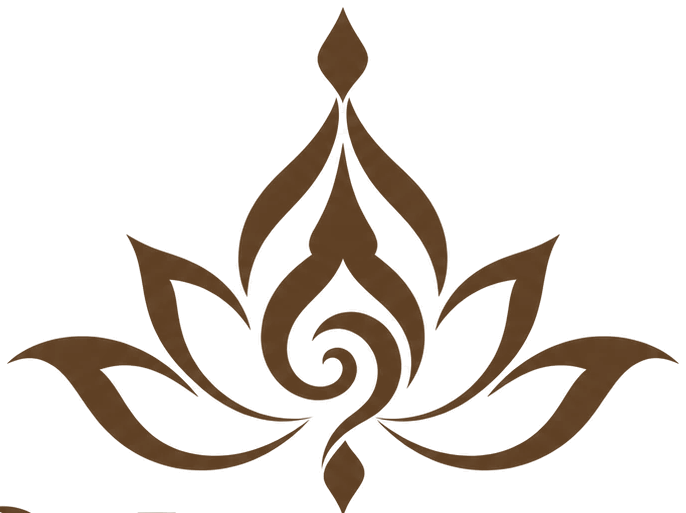
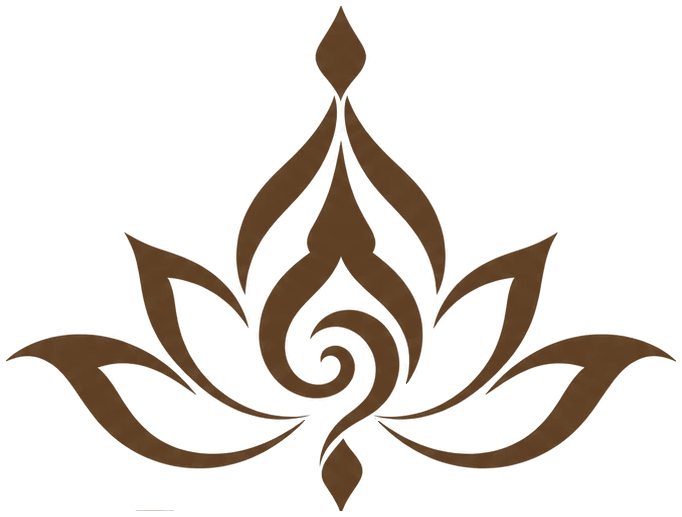
Put the lotus back in the header and footer, in the brand's own ink
The mark was traced and committed but nothing rendered it, so the site still
showed a bare typographic wordmark. The earlier decision to drop the lotus
was made when the only source was the foil mockup and its geometry could not
be cleaned up; the flat artwork removes that reason.

Header and footer now pair the mark with "MONTRA", both in
--color-brand-ink (#5F4024) — the logo's own colour, sampled from the
supplied artwork rather than invented, at 8.7:1 on cream.

The mark ships as an inline component rather than a file. An <img> has no
colour context, so fill="currentColor" would resolve to black; inlined, it
inherits from CSS and one component serves light and dark surfaces.

Tracing also needed a fix: the crop sits just above the wordmark and caught
the top-left serif of the "M", which rendered as a speck below the flower at
header size. Connected components under 500px are now dropped before
tracing, which removes it along with three single-pixel artefacts. Icons are
regenerated from the cleaned mark.

Verified: build, typecheck and lint clean; no horizontal overflow at 320,
375, 390, 430, 768, 1024, 1280 or 1440px.

Claude-Session: https://claude.ai/code/session_01G4VhenjMcrEwsY3VHVcRzM

diff --git a/src/components/brand/logo-mark.tsx b/src/components/brand/logo-mark.tsx
@@ -1,25 +1,40 @@
-<?xml version="1.0" standalone="no"?>
-<!DOCTYPE svg PUBLIC "-//W3C//DTD SVG 20010904//EN"
- "http://www.w3.org/TR/2001/REC-SVG-20010904/DTD/svg10.dtd">
-<svg version="1.0" xmlns="http://www.w3.org/2000/svg"
- viewBox="0 0 682.000000 517.000000"
- preserveAspectRatio="xMidYMid meet">
-<g transform="translate(0.000000,517.000000) scale(0.100000,-0.100000)"
-fill="currentColor" stroke="none">
-<path d="M3370 5032 c-19 -42 -69 -133 -110 -202 -94 -156 -100 -170 -100
+import type { SVGProps } from 'react'
+
+/**
+ * The Montra lotus, traced from the flat logo the client supplied.
+ *
+ * Inlined rather than served as a file so `currentColor` resolves — an <img>
+ * carries no colour context and would render it black.
+ *
+ * Components smaller than 500px were dropped before tracing: the crop sits
+ * just above the wordmark and caught the top-left serif of the "M", which
+ * showed up as a speck under the flower.
+ */
+export function LogoMark(props: SVGProps<SVGSVGElement>) {
+  return (
+    <svg
+      viewBox="0 0 682.000000 517.000000"
+      preserveAspectRatio="xMidYMid meet"
+      fill="currentColor"
+      aria-hidden="true"
+      focusable="false"
+      {...props}
+    >
+      <g transform="translate(0.000000,517.000000) scale(0.100000,-0.100000)" stroke="none">
+        <path d="M3370 5032 c-19 -42 -69 -133 -110 -202 -94 -156 -100 -170 -100
 -231 0 -65 24 -114 115 -228 41 -52 87 -119 103 -150 l30 -54 30 59 c17 32 63
 100 103 149 39 50 82 113 95 140 43 91 33 125 -95 339 -39 65 -83 150 -98 187
--16 38 -30 69 -33 69 -3 -1 -21 -35 -40 -78z"/>
-<path d="M3321 4152 c-32 -84 -116 -225 -198 -330 -37 -48 -162 -181 -278
+-16 38 -30 69 -33 69 -3 -1 -21 -35 -40 -78z" />
+        <path d="M3321 4152 c-32 -84 -116 -225 -198 -330 -37 -48 -162 -181 -278
 -297 -223 -223 -301 -321 -373 -467 -124 -251 -141 -564 -44 -788 l20 -45 6
 50 c41 324 129 495 402 788 220 237 305 350 387 512 107 214 150 436 113 590
-l-11 50 -24 -63z"/>
-<path d="M3466 4201 c-4 -5 -10 -42 -15 -82 -20 -156 25 -354 126 -551 77
+l-11 50 -24 -63z" />
+        <path d="M3466 4201 c-4 -5 -10 -42 -15 -82 -20 -156 25 -354 126 -551 77
 -152 154 -255 335 -451 169 -182 240 -270 306 -382 73 -124 127 -292 139 -427
 3 -43 9 -78 12 -78 12 0 50 110 67 191 24 120 15 332 -20 454 -33 118 -109
 269 -188 375 -34 47 -143 164 -242 260 -280 275 -405 436 -480 619 -19 46 -37
-78 -40 72z"/>
-<path d="M3372 3584 c-18 -92 -53 -227 -77 -302 -39 -117 -71 -188 -193 -424
+78 -40 72z" />
+        <path d="M3372 3584 c-18 -92 -53 -227 -77 -302 -39 -117 -71 -188 -193 -424
 -32 -63 -39 -123 -18 -173 l17 -40 -28 -20 c-90 -64 -217 -182 -276 -255 -263
 -327 -275 -743 -28 -1003 112 -117 244 -177 392 -177 189 0 340 99 379 250 35
 133 -58 270 -184 270 -84 0 -146 -51 -146 -121 l0 -37 29 29 c75 74 190 -5
@@ -29,43 +44,45 @@ l-11 50 -24 -63z"/>
 -82 19 -225 0 -314 -8 -38 -13 -71 -11 -74 7 -6 56 76 89 147 50 111 69 203
 70 336 0 79 -6 143 -17 188 -50 210 -177 397 -382 563 -73 59 -93 81 -87 93 4
 9 8 45 8 81 0 51 -6 76 -26 115 -14 28 -58 111 -97 186 -39 74 -87 182 -106
-240 -35 105 -80 305 -92 412 -4 31 -10 57 -13 57 -3 0 -21 -75 -39 -166z"/>
-<path d="M1252 2832 c82 -155 113 -256 162 -537 35 -196 67 -301 136 -442 78
+240 -35 105 -80 305 -92 412 -4 31 -10 57 -13 57 -3 0 -21 -75 -39 -166z" />
+        <path d="M1252 2832 c82 -155 113 -256 162 -537 35 -196 67 -301 136 -442 78
 -159 176 -288 338 -444 247 -238 457 -358 724 -413 95 -20 298 -20 388 -2 l65
 14 -80 -5 c-305 -19 -627 104 -863 331 -209 201 -311 413 -367 761 -15 94 -38
 199 -50 234 l-23 64 52 -7 c84 -9 223 -53 315 -98 147 -72 270 -175 372 -311
 63 -84 70 -83 39 8 -66 193 -208 369 -397 492 -106 70 -199 111 -397 179 -89
-30 -219 84 -289 119 -71 35 -127 61 -125 57z"/>
-<path d="M5445 2776 c-68 -35 -189 -85 -280 -115 -281 -93 -429 -175 -571
+30 -219 84 -289 119 -71 35 -127 61 -125 57z" />
+        <path d="M5445 2776 c-68 -35 -189 -85 -280 -115 -281 -93 -429 -175 -571
 -316 -91 -90 -151 -174 -199 -279 -33 -72 -60 -154 -52 -162 2 -2 20 19 39 48
 94 140 234 257 403 340 96 46 267 98 325 98 l28 0 -25 -67 c-13 -36 -35 -134
 -49 -217 -39 -237 -74 -353 -145 -485 -207 -386 -659 -646 -1074 -618 -55 4
 -73 3 -56 -4 37 -15 217 -25 314 -17 126 9 263 50 412 124 165 81 275 163 445
 333 277 278 380 481 455 899 44 248 70 339 125 440 16 30 29 56 27 57 -1 1
--56 -26 -122 -59z"/>
-<path d="M3370 2054 c-104 -28 -204 -114 -249 -214 -11 -25 -18 -46 -17 -48 2
+-56 -26 -122 -59z" />
+        <path d="M3370 2054 c-104 -28 -204 -114 -249 -214 -11 -25 -18 -46 -17 -48 2
 -1 18 12 37 29 59 55 112 74 214 74 80 0 97 -3 155 -31 168 -80 268 -267 241
 -454 -13 -86 -52 -175 -106 -237 -20 -24 -85 -81 -145 -128 -120 -94 -195
 -181 -240 -276 -33 -72 -60 -168 -60 -214 1 -26 3 -23 18 21 27 77 75 144 160
 226 72 69 117 100 302 209 193 114 310 307 310 513 0 155 -48 279 -149 388
--121 132 -304 187 -471 142z"/>
-<path d="M700 1824 c-217 -27 -365 -73 -504 -157 -57 -35 -138 -98 -133 -103
+-121 132 -304 187 -471 142z" />
+        <path d="M700 1824 c-217 -27 -365 -73 -504 -157 -57 -35 -138 -98 -133 -103
 2 -2 29 5 61 15 227 79 417 -12 610 -289 205 -294 261 -364 379 -469 188 -167
 415 -275 666 -317 159 -26 389 -16 541 24 191 50 350 126 517 250 82 62 216
 182 210 189 -3 2 -40 -21 -84 -51 -176 -122 -406 -222 -593 -260 -308 -62
 -625 1 -847 168 -119 90 -183 170 -388 484 -26 41 -72 100 -102 132 l-54 58
 78 19 c54 12 112 17 188 17 188 -3 344 -62 580 -220 69 -46 125 -81 125 -78 0
-15 -148 169 -223 232 -267 225 -559 343 -877 356 -63 2 -131 2 -150 0z"/>
-<path d="M5883 1820 c-261 -28 -518 -136 -749 -315 -78 -62 -279 -263 -270
+15 -148 169 -223 232 -267 225 -559 343 -877 356 -63 2 -131 2 -150 0z" />
+        <path d="M5883 1820 c-261 -28 -518 -136 -749 -315 -78 -62 -279 -263 -270
 -272 2 -3 55 30 118 72 141 96 309 179 413 206 107 28 272 30 373 5 l72 -18
 -56 -61 c-31 -33 -77 -92 -102 -131 -206 -319 -258 -384 -385 -478 -138 -102
 -275 -157 -461 -184 -301 -44 -649 47 -950 249 -55 37 -101 65 -103 63 -2 -2
 27 -32 64 -66 292 -268 616 -400 983 -400 451 0 835 207 1111 597 30 43 93
 131 138 195 109 154 196 237 298 286 73 35 84 37 168 36 68 -1 104 -7 148 -23
-32 -13 60 -21 63 -19 10 10 -141 111 -226 152 -194 92 -424 129 -647 106z"/>
-<path d="M3359 697 c-92 -113 -128 -174 -135 -229 -10 -72 1 -107 67 -209 33
+32 -13 60 -21 63 -19 10 10 -141 111 -226 152 -194 92 -424 129 -647 106z" />
+        <path d="M3359 697 c-92 -113 -128 -174 -135 -229 -10 -72 1 -107 67 -209 33
 -52 71 -118 85 -146 13 -29 29 -53 34 -53 5 0 24 28 41 63 17 34 55 99 85 144
 75 117 84 136 84 189 0 60 -24 109 -96 199 -31 39 -62 82 -70 98 -8 15 -18 27
--22 27 -4 0 -37 -37 -73 -83z"/>
-</g>
-</svg>
+-22 27 -4 0 -37 -37 -73 -83z" />
+      </g>
+    </svg>
+  )
+}

diff --git a/src/components/layout/footer.tsx b/src/components/layout/footer.tsx
@@ -1,4 +1,5 @@
 import Link from 'next/link'
+import { LogoMark } from '@/components/brand/logo-mark'
 import { LOCATION } from '@/content/location'
 import { Container } from '@/components/ui'
 
@@ -30,9 +31,12 @@ export function Footer() {
       <Container>
         <div className="grid gap-12 py-16 md:grid-cols-12 md:py-20">
           <div className="md:col-span-5">
-            <p className="text-[1.375rem] leading-none font-medium tracking-[0.24em] uppercase">
-              Montra
-            </p>
+            <div className="flex items-center gap-3 text-brand-ink">
+              <LogoMark className="h-9 w-auto" />
+              <p className="text-[1.375rem] leading-none font-medium tracking-[0.24em] uppercase">
+                Montra
+              </p>
+            </div>
             <p className="text-small mt-3 tracking-[0.18em] text-secondary uppercase">
               Thajské masáže &amp; wellness
             </p>

diff --git a/src/components/layout/header.tsx b/src/components/layout/header.tsx
@@ -1,6 +1,7 @@
 'use client'
 
 import Link from 'next/link'
+import { LogoMark } from '@/components/brand/logo-mark'
 import { usePathname } from 'next/navigation'
 import { useEffect, useRef, useState } from 'react'
 import { LOCATION } from '@/content/location'
@@ -19,10 +20,13 @@ function Wordmark() {
   return (
     <Link
       href="/"
-      className="text-[1.25rem] leading-none font-medium tracking-[0.18em] whitespace-nowrap uppercase sm:text-[1.375rem] sm:tracking-[0.24em]"
+      className="flex items-center gap-2.5 text-brand-ink sm:gap-3"
       aria-label="Montra Beroun — úvodní stránka"
     >
-      Montra
+      <LogoMark className="h-7 w-auto sm:h-8" />
+      <span className="text-[1.25rem] leading-none font-medium tracking-[0.18em] whitespace-nowrap uppercase sm:text-[1.375rem] sm:tracking-[0.24em]">
+        Montra
+      </span>
     </Link>
   )
 }

diff --git a/src/app/globals.css b/src/app/globals.css
@@ -8,6 +8,9 @@
   --color-foreground: #000000;
   --color-secondary: #707070;
   --color-surface: #ffffff;
+  /* The logo's own ink, sampled from the supplied flat artwork. 8.7:1 on cream. */
+  --color-brand-ink: #5f4024;
+
   --color-accent: #b5613c;
   --color-accent-secondary: #c67349;
 

diff --git a/docs/brand/README.md b/docs/brand/README.md
@@ -32,12 +32,21 @@ Kontrast `#5F4024` na krémové `#FFF5E6` je 8,7:1.
 
 ## Kde se logo na webu používá
 
-V hlavičce a patičce je zatím **jen textové „MONTRA“** — tak bylo
-rozhodnuto dřív. Znak žije ve faviconu a iOS ikoně, kde stojí sám a má
-prostor.
+V hlavičce a patičce stojí lotos vedle nápisu „MONTRA“, obojí v barvě
+`--color-brand-ink` (`#5F4024`) — vlastní barvě loga, odečtené z dodané
+ploché kresby. Kontrast na krémové je 8,7:1.
 
-Vrátit lotos vedle nápisu je teď na jeden řádek: vektor je připravený
-a barvu zdědí z CSS.
+Znak je vložený inline jako `src/components/brand/logo-mark.tsx`, ne jako
+soubor: `<img>` nemá barevný kontext, takže by se `currentColor` vyhodnotil
+na černou. Inline verze barvu dědí z CSS, takže stejná komponenta obslouží
+tmavý i světlý podklad.
+
+Před obkreslením se zahazují komponenty menší než 500 px. Výřez sedí těsně
+nad nápisem a zachytával levou patku písmene „M“, která se pak pod květem
+objevovala jako smítko.
+
+Celý lockup se v rozhraní nepoužívá — je stavěný na výšku a do hlavičky se
+nevejde.
 
 ## Co chybí
 
